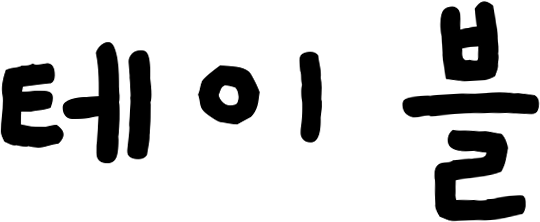
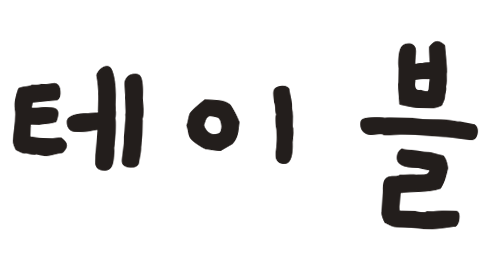
멀티 다리 색·닉네임 표시 + 하위 메뉴 제목 구분 + 타이틀 정렬 통일
- LegPalette: 다리 색(FL초록/FR빨강/BL노랑/BR파랑)·자동 닉네임(P1=호스트, P2~=접속 순서) 공용 팔레트
- 로비(NetDebugPanel): 다리 타일을 다리 색으로 채움 + 왼쪽 색 띠 + 소유자 P1/P2 표기
- 인게임: 멀티 세션이면 LegColorXray 자동 켜짐(선 굵게), LegNameTags가 주인 있는 다리 위에 색 맞춘 P1/P2 빌보드 표시(Table.prefab)
- LevelSelect 제목(스테이지 선택 등)을 작은 회색 글씨로 — 메뉴 항목과 구분
- 한글 타이틀 두 조각 크기/기준선 통일(1.12배 제거, 같은 캔버스 높이로 재생성)

diff --git a/Assets/Scripts/LegNameTags.cs b/Assets/Scripts/LegNameTags.cs
@@ -1,0 +1,80 @@
+using Unity.Netcode;
+using UnityEngine;
+
+/// <summary>
+/// ★2026-07-14 멀티 다리 닉네임 태그 — 테이블 루트(ArtSceneReset 옆)에 부착.
+/// 멀티 세션 중 주인이 있는 다리 위에 P1/P2… 빌보드 라벨을 다리 색(LegPalette)으로 띄운다.
+/// 싱글/로컬 플레이에서는 아무것도 안 보임. 다리 탐색은 LegColorXray와 같은 방식(자식→전역).
+/// </summary>
+public class LegNameTags : MonoBehaviour
+{
+    [Tooltip("다리 피벗 기준 라벨 높이(m)")] public float height = 0.55f;
+
+    // 로비 슬롯 순서(0=WASD 앞왼, 1=TFGH 앞오, 2=IJKL 뒤왼, 3=Arrows 뒤오)
+    static readonly string[] LegBySlot = { "Leg_FL", "Leg_FR", "Leg_BL", "Leg_BR" };
+
+    readonly Transform[] legs = new Transform[4];
+    readonly TextMesh[] tags = new TextMesh[4];
+    NetLegLink link;
+    Camera cam;
+    float linkFindAt;
+
+    void Start()
+    {
+        var font = Resources.GetBuiltinResource<Font>("LegacyRuntime.ttf");
+        for (int i = 0; i < 4; i++)
+        {
+            legs[i] = FindLeg(LegBySlot[i]);
+            if (legs[i] == null) continue;
+
+            var go = new GameObject("NameTag_" + LegBySlot[i]);
+            go.transform.SetParent(transform, false);
+            var tm = go.AddComponent<TextMesh>();
+            tm.font = font;
+            tm.fontSize = 72;
+            tm.characterSize = 0.016f;
+            tm.fontStyle = FontStyle.Bold;
+            tm.anchor = TextAnchor.LowerCenter;
+            tm.alignment = TextAlignment.Center;
+            tm.color = i < LegPalette.BySlot.Length ? LegPalette.BySlot[i] : Color.white;
+            go.GetComponent<MeshRenderer>().sharedMaterial = font.material;
+            tags[i] = tm;
+            go.SetActive(false);
+        }
+    }
+
+    void LateUpdate()
+    {
+        var nm = NetworkManager.Singleton;
+        bool inSession = nm != null && nm.IsListening;
+        if (inSession && link == null && Time.unscaledTime > linkFindAt)
+        {
+            link = FindAnyObjectByType<NetLegLink>();
+            linkFindAt = Time.unscaledTime + 2f;
+        }
+        if (cam == null) cam = Camera.main;
+
+        for (int i = 0; i < 4; i++)
+        {
+            if (tags[i] == null) continue;
+            long owner = inSession && link != null ? link.OwnerOf(i) : -2;
+            bool show = inSession && owner != -2;
+            if (tags[i].gameObject.activeSelf != show) tags[i].gameObject.SetActive(show);
+            if (!show || legs[i] == null) continue;
+
+            tags[i].text = LegPalette.NickOf(owner);
+            var t = tags[i].transform;
+            t.position = legs[i].position + Vector3.up * height;
+            if (cam != null)
+                t.rotation = Quaternion.LookRotation(t.position - cam.transform.position);   // 카메라를 향하는 빌보드
+        }
+    }
+
+    Transform FindLeg(string n)
+    {
+        foreach (var t in transform.root.GetComponentsInChildren<Transform>(true))
+            if (t.name == n) return t;
+        var go = GameObject.Find(n);
+        return go != null ? go.transform : null;
+    }
+}

diff --git a/Assets/Scripts/NetDebugPanel.cs b/Assets/Scripts/NetDebugPanel.cs
@@ -176,13 +176,16 @@ public class NetDebugPanel : MonoBehaviour
                 long owner = link != null ? link.OwnerOf(i) : -2;
                 bool mine = link != null && link.IsMine(i);
                 var r = LegBtn(i);
+                var col = LegPalette.BySlot[i];
                 UiKit.Panel(r);
-                if (mine) UiKit.Fill(r, new Color(0f, 0f, 0f, 0.14f));            // 내 자리 = 진한 음영
-                else if (owner != -2) UiKit.Fill(r, new Color(0f, 0f, 0f, 0.05f)); // 남의 자리 = 옅은 음영
-                else if (r.Contains(gm)) UiKit.Fill(r, new Color(0f, 0f, 0f, 0.08f));
-                string who = mine ? "★ 나 (다시 클릭=해제)" : owner == -2 ? "빈 자리" : owner == -1 ? "호스트" : "P" + owner;
-                GUI.Label(new Rect(r.x, r.y + 10f, r.width, 28f), LegNames[i], btn);
-                GUI.Label(new Rect(r.x, r.y + 42f, r.width, 26f), who, small);
+                // ★다리 고유색으로 채움 — 인게임 다리 색과 같은 팔레트(선택 상태에 따라 진하기만 다름)
+                float a = mine ? 0.50f : owner != -2 ? 0.30f : r.Contains(gm) ? 0.22f : 0.13f;
+                UiKit.Fill(r, new Color(col.r, col.g, col.b, a));
+                UiKit.Fill(new Rect(r.x, r.y, 10f, r.height), col);   // 왼쪽 진한 색 띠
+                string nick = LegPalette.NickOf(owner);
+                string who = mine ? "★ 나 (" + nick + ") — 다시 클릭=해제" : owner == -2 ? "빈 자리" : nick;
+                GUI.Label(new Rect(r.x + 14f, r.y + 10f, r.width - 14f, 28f), LegNames[i], btn);
+                GUI.Label(new Rect(r.x + 14f, r.y + 42f, r.width - 14f, 26f), who, small);
             }
 
             // 맵 선택(호스트=클릭, 게스트=표시만)

diff --git a/Assets/Scripts/LegPalette.cs b/Assets/Scripts/LegPalette.cs
@@ -1,0 +1,25 @@
+using UnityEngine;
+
+/// <summary>
+/// ★2026-07-14 다리 색/닉네임 공용 팔레트 — 로비 슬롯 순서(0=앞왼FL, 1=앞오FR, 2=뒤왼BL, 3=뒤오BR).
+/// 색은 조작법 이미지(FL초록/FR빨강/BL노랑/BR파랑)·LegColorXray와 일치.
+/// 닉네임은 자동: 호스트=P1, 게스트=P(clientId+1) — NGO clientId가 접속 순서라 모든 클라에서 동일.
+/// </summary>
+public static class LegPalette
+{
+    public static readonly Color[] BySlot =
+    {
+        new Color(0.20f, 0.85f, 0.30f),   // 앞왼 FL 초록 (WASD)
+        new Color(1f,    0.20f, 0.20f),   // 앞오 FR 빨강 (TFGH)
+        new Color(1f,    0.80f, 0.15f),   // 뒤왼 BL 노랑 (IJKL)
+        new Color(0.25f, 0.55f, 1f),      // 뒤오 BR 파랑 (방향키)
+    };
+
+    /// <summary>NetLegLink.OwnerOf 값(-2=빈, -1=호스트, 그 외 clientId) → 닉네임.</summary>
+    public static string NickOf(long owner)
+    {
+        if (owner == -1) return "P1";
+        if (owner >= 0) return "P" + (owner + 1);
+        return "";
+    }
+}

diff --git a/Assets/Scripts/TitleLocalizer.cs b/Assets/Scripts/TitleLocalizer.cs
@@ -49,10 +49,11 @@ public class TitleLocalizer : MonoBehaviour
             weRt.anchoredPosition = weBasePos;
 
             table.sprite = krSecond;
-            float h2 = krHeight * 1.12f;   // 테이블 조각이 원본에서도 살짝 큼
+            // ★2026-07-14 타이틀 정렬 통일(사용자 요청): 두 조각 같은 높이·같은 y 기준(전엔 EN table의 y를 따라 어긋남)
+            float h2 = krHeight;
             float w2 = h2 * krSecond.rect.width / krSecond.rect.height;
             tableRt.sizeDelta = new Vector2(w2, h2);
-            tableRt.anchoredPosition = new Vector2(weBasePos.x + w1 * 0.5f + w2 * 0.5f + 64f, tableBasePos.y);   // 두 단어 사이 띄움
+            tableRt.anchoredPosition = new Vector2(weBasePos.x + w1 * 0.5f + w2 * 0.5f + 48f, weBasePos.y);   // 두 단어 사이 띄움
         }
         else
         {

diff --git a/Assets/Scripts/LevelSelect.cs b/Assets/Scripts/LevelSelect.cs
@@ -172,7 +172,8 @@ public class LevelSelect : MonoBehaviour
         // ★B안 손그림 리스킨(2026-07-13): 전 스타일 개구체(Gaegu) — 손글씨 폰트라 사이즈 상향
         // ★홈 화면과 통일(박스 없는 손글씨 좌측 정렬)
         labelStyle = HandUI.Style(26, HandUI.Ink);
-        titleStyle = HandUI.Style(44, HandUI.Ink, TextAnchor.MiddleLeft);
+        // ★2026-07-14 제목은 메뉴 항목과 구분(사용자 요청): 작고 연한 회색 = 호버/클릭 안 되는 안내 글씨
+        titleStyle = HandUI.Style(28, HandUI.InkSoft, TextAnchor.MiddleLeft);
         backStyle = HandUI.Style(30, HandUI.Ink, TextAnchor.MiddleLeft);
         btnStyle = HandUI.Style(32, HandUI.Ink, TextAnchor.MiddleLeft);
         smallStyle = HandUI.Style(20, HandUI.InkSoft, TextAnchor.MiddleLeft);

diff --git a/Assets/Scripts/LegColorXray.cs b/Assets/Scripts/LegColorXray.cs
@@ -47,6 +47,14 @@ public class LegColorXray : MonoBehaviour
 
     void Start()
     {
+        // ★멀티 세션이면 자동으로 켜고 선도 굵게 — 누가 어느 다리인지 색으로 바로 보이게.
+        var nm = Unity.Netcode.NetworkManager.Singleton;
+        if (nm != null && nm.IsListening)
+        {
+            startOn = true;
+            lineWidth = Mathf.Max(lineWidth, 0.025f);
+        }
+
         var shader = Shader.Find("Custom/XrayLine");
         _mat = new Material(shader != null ? shader : Shader.Find("Sprites/Default"));
         _mat.hideFlags = HideFlags.DontSave;

diff --git a/CLAUDE.md b/CLAUDE.md
@@ -232,6 +232,14 @@
 - **ArtSceneReset.inMenuScene**: 시작 화면(StartScreenMenu/NewStartScreenUI 존재)에선 충전 동그라미/뒤집힘 배너 숨김(언어 토글과 겹치던 문제).
 - 검증: KR/EN 홈·스테이지·함께하기 스크린샷, 에러 0. 사용자에게 한글 타이틀 시안 전달(교체 시 Title_kr_*.png만 갈아끼우면 됨).
 
+## 멀티 다리 색·닉네임 + 메뉴 제목 구분 (★2026-07-14)
+- **`LegPalette.cs`**: 다리 색/닉네임 공용 정적 팔레트 — **로비 슬롯 순서(0=WASD 앞왼FL 초록, 1=TFGH 앞오FR 빨강, 2=IJKL 뒤왼BL 노랑, 3=Arrows 뒤오BR 파랑)**. LegColorXray(FR,FL,BR,BL 순서)·조작법 이미지와 같은 색. `NickOf(OwnerOf값)`: -1(호스트)=P1, clientId c=P(c+1) — NGO clientId가 접속 순서라 모든 클라에서 동일, 동기화 불필요(게스트에서 호스트 소유는 clientId 0으로 보여도 P1로 일치).
+- **로비(NetDebugPanel)**: 다리 타일을 다리 색으로 채움(내 자리 진하게 α0.50/남의 자리 0.30/호버 0.22/빈 0.13)+왼쪽 색 띠, 소유자 줄 = "★ 나 (P1) — 다시 클릭=해제" / "P2" / "빈 자리".
+- **인게임**: `LegColorXray.Start`에서 **NM.IsListening이면 자동 SetOn + lineWidth≥0.025**(멀티는 씬 로드 시점에 세션이 이미 켜져 있어 Start 검사로 충분). **`LegNameTags.cs`**(Table.prefab 루트, LegColorXray 옆): 주인 있는 다리 위(피벗+0.55m)에 다리 색 TextMesh 빌보드 P1/P2 — 멀티 세션에서만, 빈 다리(-2)는 숨김(⚠1인1테이블 모드의 호스트 테이블은 AssignAllServer가 NONE이라 태그 없음 — 수용).
+- **하위 메뉴 제목 구분**(사용자: 호버/클릭 안 되는 그냥 글씨): LevelSelect.titleStyle 44 Ink → **28 InkSoft** — '스테이지 선택/함께하기/방 코드로 참가'가 메뉴 항목(32~34 Ink)과 즉시 구분됨.
+- **타이틀 정렬 통일**: Title_kr_1/2.png 재생성(scratchpad title_kr.py — **공통 캔버스 높이 270px·같은 폰트 px·가로만 크롭**이라 두 조각 스케일 자동 일치, 지터 ±1.8°). TitleLocalizer의 **1.12배 제거 + 둘째 조각 y를 weBasePos.y로**(전엔 EN table의 y를 따라 어긋남), 간격 64→48. 같은 파일명 덮어쓰기라 재링크 불필요.
+- 검증: StartScreen 플레이 워처(파일 기반 스크립트 + PlayerPrefs 플래그 — RunCommand 스니펫 클래스는 도메인 리로드에 안 살아남음) — 로컬 StartHost→ClaimLegRpc(0,3)→로비 색 타일+★나(P1) 스크린샷, 배경 테이블 다리 위 파란 P1 태그 확인, 에러 0. ⚠진짜 게스트(P2) 표시는 MPPM으로 사용자 확인 필요.
+
 ## NewJungle + VARCO 3D 소품 파이프라인 (★2026-07-13)
 - **NewJungle.unity** = Jungle 복제(빌드 등록됨, 메뉴 미노출). **"JungleProps"** 루트 아래 VARCO 생성 소품 33개: 티키 석상 2(높이 2.8 목표, 콜라이더 O) / 통나무 5(길이 2.8, O) / 바위 10(폭 1.7, O) / 양치식물 16(높이 1.3, 콜라이더 X — 통과 가능). 배치는 시드 고정 RNG(7) + IslandTerrain 순수 함수(HeightAt/DistanceToRiver — 에디트 모드 OK)로 유효지점 탐색(물가·협곡·급경사·스폰 11m·창고 문 9m 회피, 티키 먼저 배치해 간격 확보). 크기 정규화=렌더러 바운즈 실측→목표 크기 스케일, 접지=HeightAt-sink.
 - **VARCO 워크플로**(브라우저 탭 열려 있어야 MCP 동작): TextInput→GenerateImage(nano-banana-2, 1:1, 20cr)→Generate3D(30k tri, tex1024, 200cr)→**Remesh(1500~2500 tri, 무료)** 체인 4개. 다운로드는 get_output_downloads **fbx + pivotToBottom=true** → Assets/Models/JungleProps/, 유니티 네이티브 임포트(URP Lit 재질+텍스처 자동). 양치식물 텍스처가 회백색이라 **FernGreen.mat**(원본 복제+초록 틴트)로 교체.
